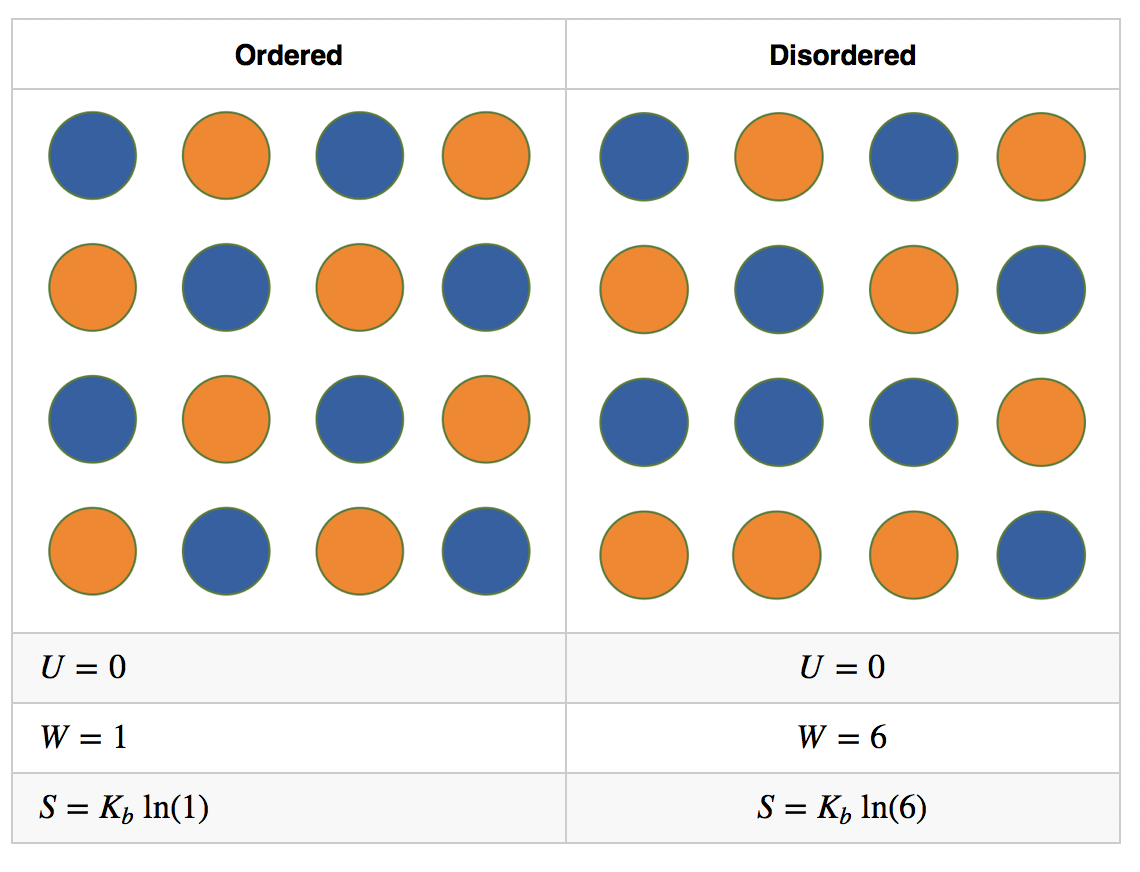
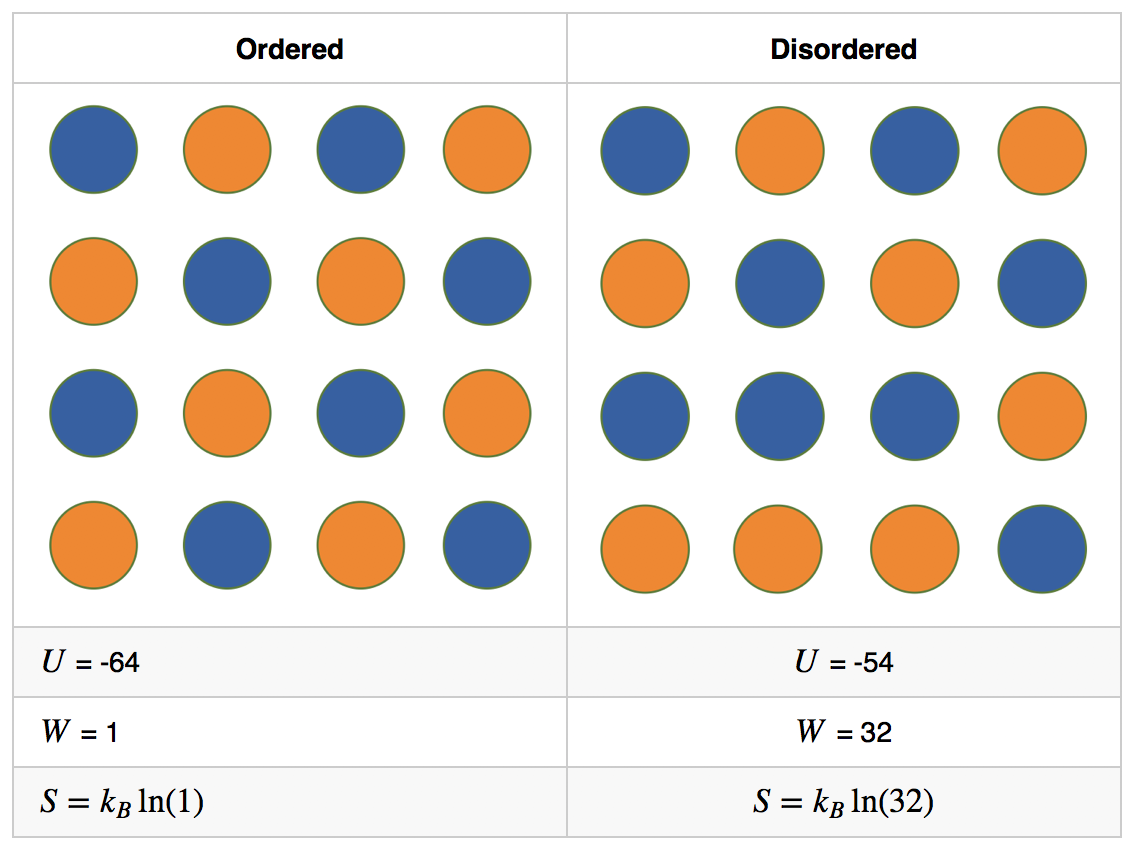
automated commmit

diff --git a/Figures/OrderDisorder.md b/Figures/OrderDisorder.md
@@ -1,0 +1,6 @@
+| Ordered | Disordered |
+|---------|:----------:|
+| <img src="Ordered.png" alt="caTiO3" style="width: 250px;"/> | <img src="Disordered.png" alt="caTiO3" style="width: 250px;"/> |
+| $U$ = -64 |$U$ = -54|
+| $W$ = 1 | $W$ = 32 |
+| $S = k_B\ln(1)$ | $S = k_B\ln(32)$ |  
